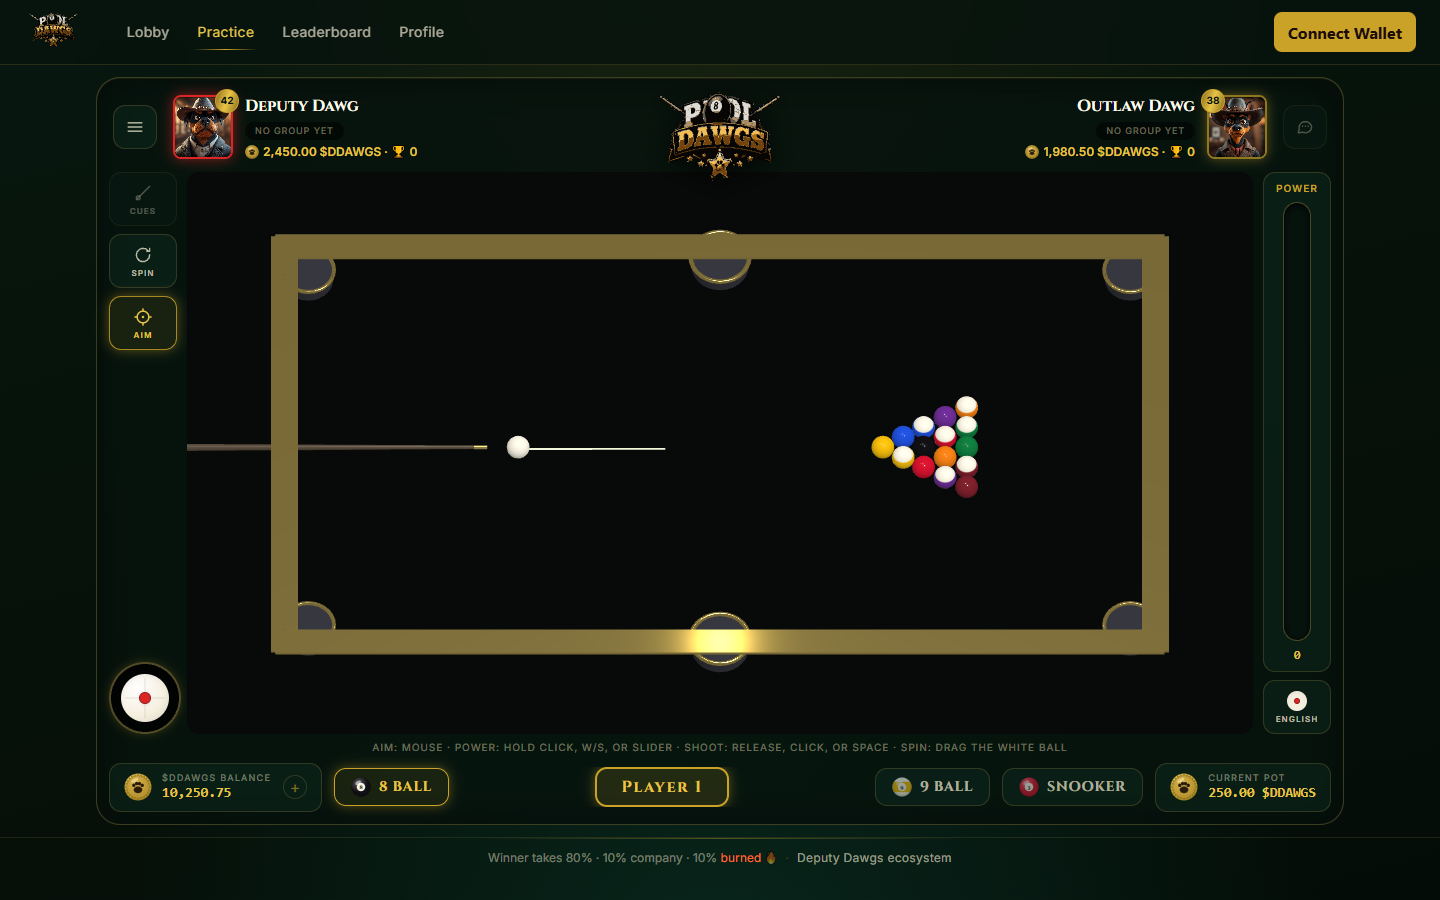
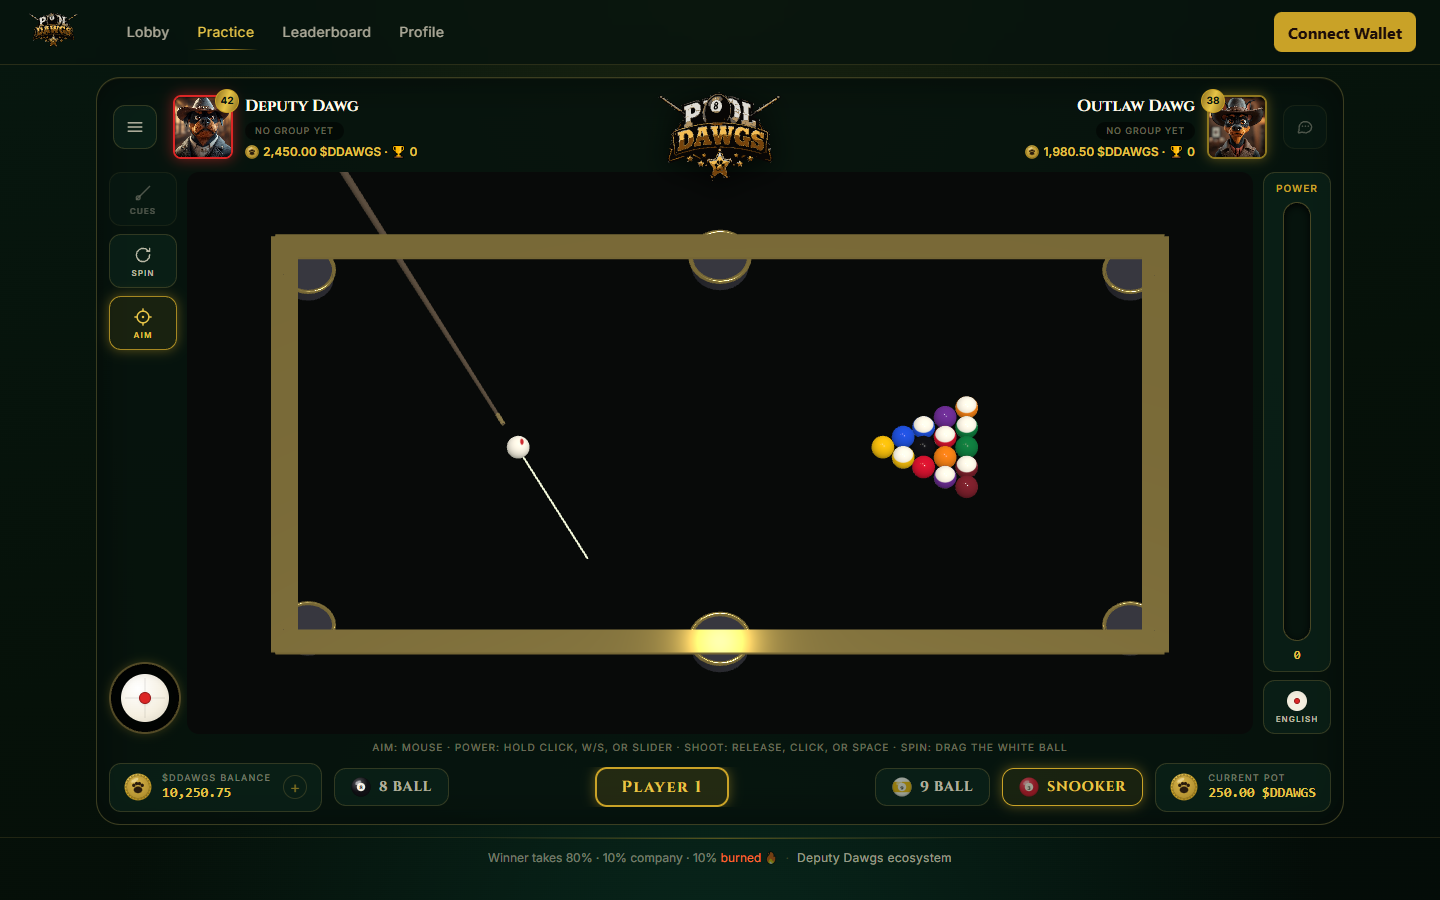
babylon and Havok engine

diff --git a/apps/web/components/PoolTable3D.tsx b/apps/web/components/PoolTable3D.tsx
@@ -12,6 +12,10 @@ import { ShadowGenerator } from "@babylonjs/core/Lights/Shadows/shadowGenerator.
 import "@babylonjs/core/Lights/Shadows/shadowGeneratorSceneComponent.js";
 import { Vector3, Color3, Color4, Quaternion, Matrix } from "@babylonjs/core/Maths/math.js";
 import { MeshBuilder } from "@babylonjs/core/Meshes/meshBuilder.js";
+// Side-effect: registers Scene.pick / Scene.createPickingRay. Without it the
+// tree-shaken build leaves them undefined and every cloth raycast throws, which
+// silently broke aim and ball-in-hand placement.
+import "@babylonjs/core/Culling/ray.js";
 import { TransformNode } from "@babylonjs/core/Meshes/transformNode.js";
 import { PBRMaterial } from "@babylonjs/core/Materials/PBR/pbrMaterial.js";
 import { StandardMaterial } from "@babylonjs/core/Materials/standardMaterial.js";
@@ -367,24 +371,10 @@ export default function PoolTable3D({
     };
     const updateAim = (clientX: number, clientY: number, isTouch: boolean) => {
       const p = propsRef.current;
-      const rect = canvas.getBoundingClientRect();
-      const ray = scene.createPickingRay(clientX - rect.left, clientY - rect.top, Matrix.Identity(), cam);
-      const t = pickTable(clientX, clientY);
-      (window as unknown as { __aim2?: unknown }).__aim2 = {
-        n: (((window as unknown as { __aim2?: { n?: number } }).__aim2?.n ?? 0) as number) + 1,
-        interactive: p.interactive,
-        playing: !!playing.current,
-        placing: placingBall.current,
-        isTouch,
-        dirY: ray.direction.y,
-        oriY: ray.origin.y,
-        pick: t,
-        rectW: rect.width,
-        rectH: rect.height,
-      };
       if (playing.current || !p.interactive) return;
       // Mouse hover always aims; touch only steers while a finger is down.
       if (!placingBall.current && isTouch && !dragging) return;
+      const t = pickTable(clientX, clientY);
       if (t) aimTarget.current = { x: t.px, y: t.py };
     };
     const onPointerMove = (e: PointerEvent) => updateAim(e.clientX, e.clientY, e.pointerType === "touch");
